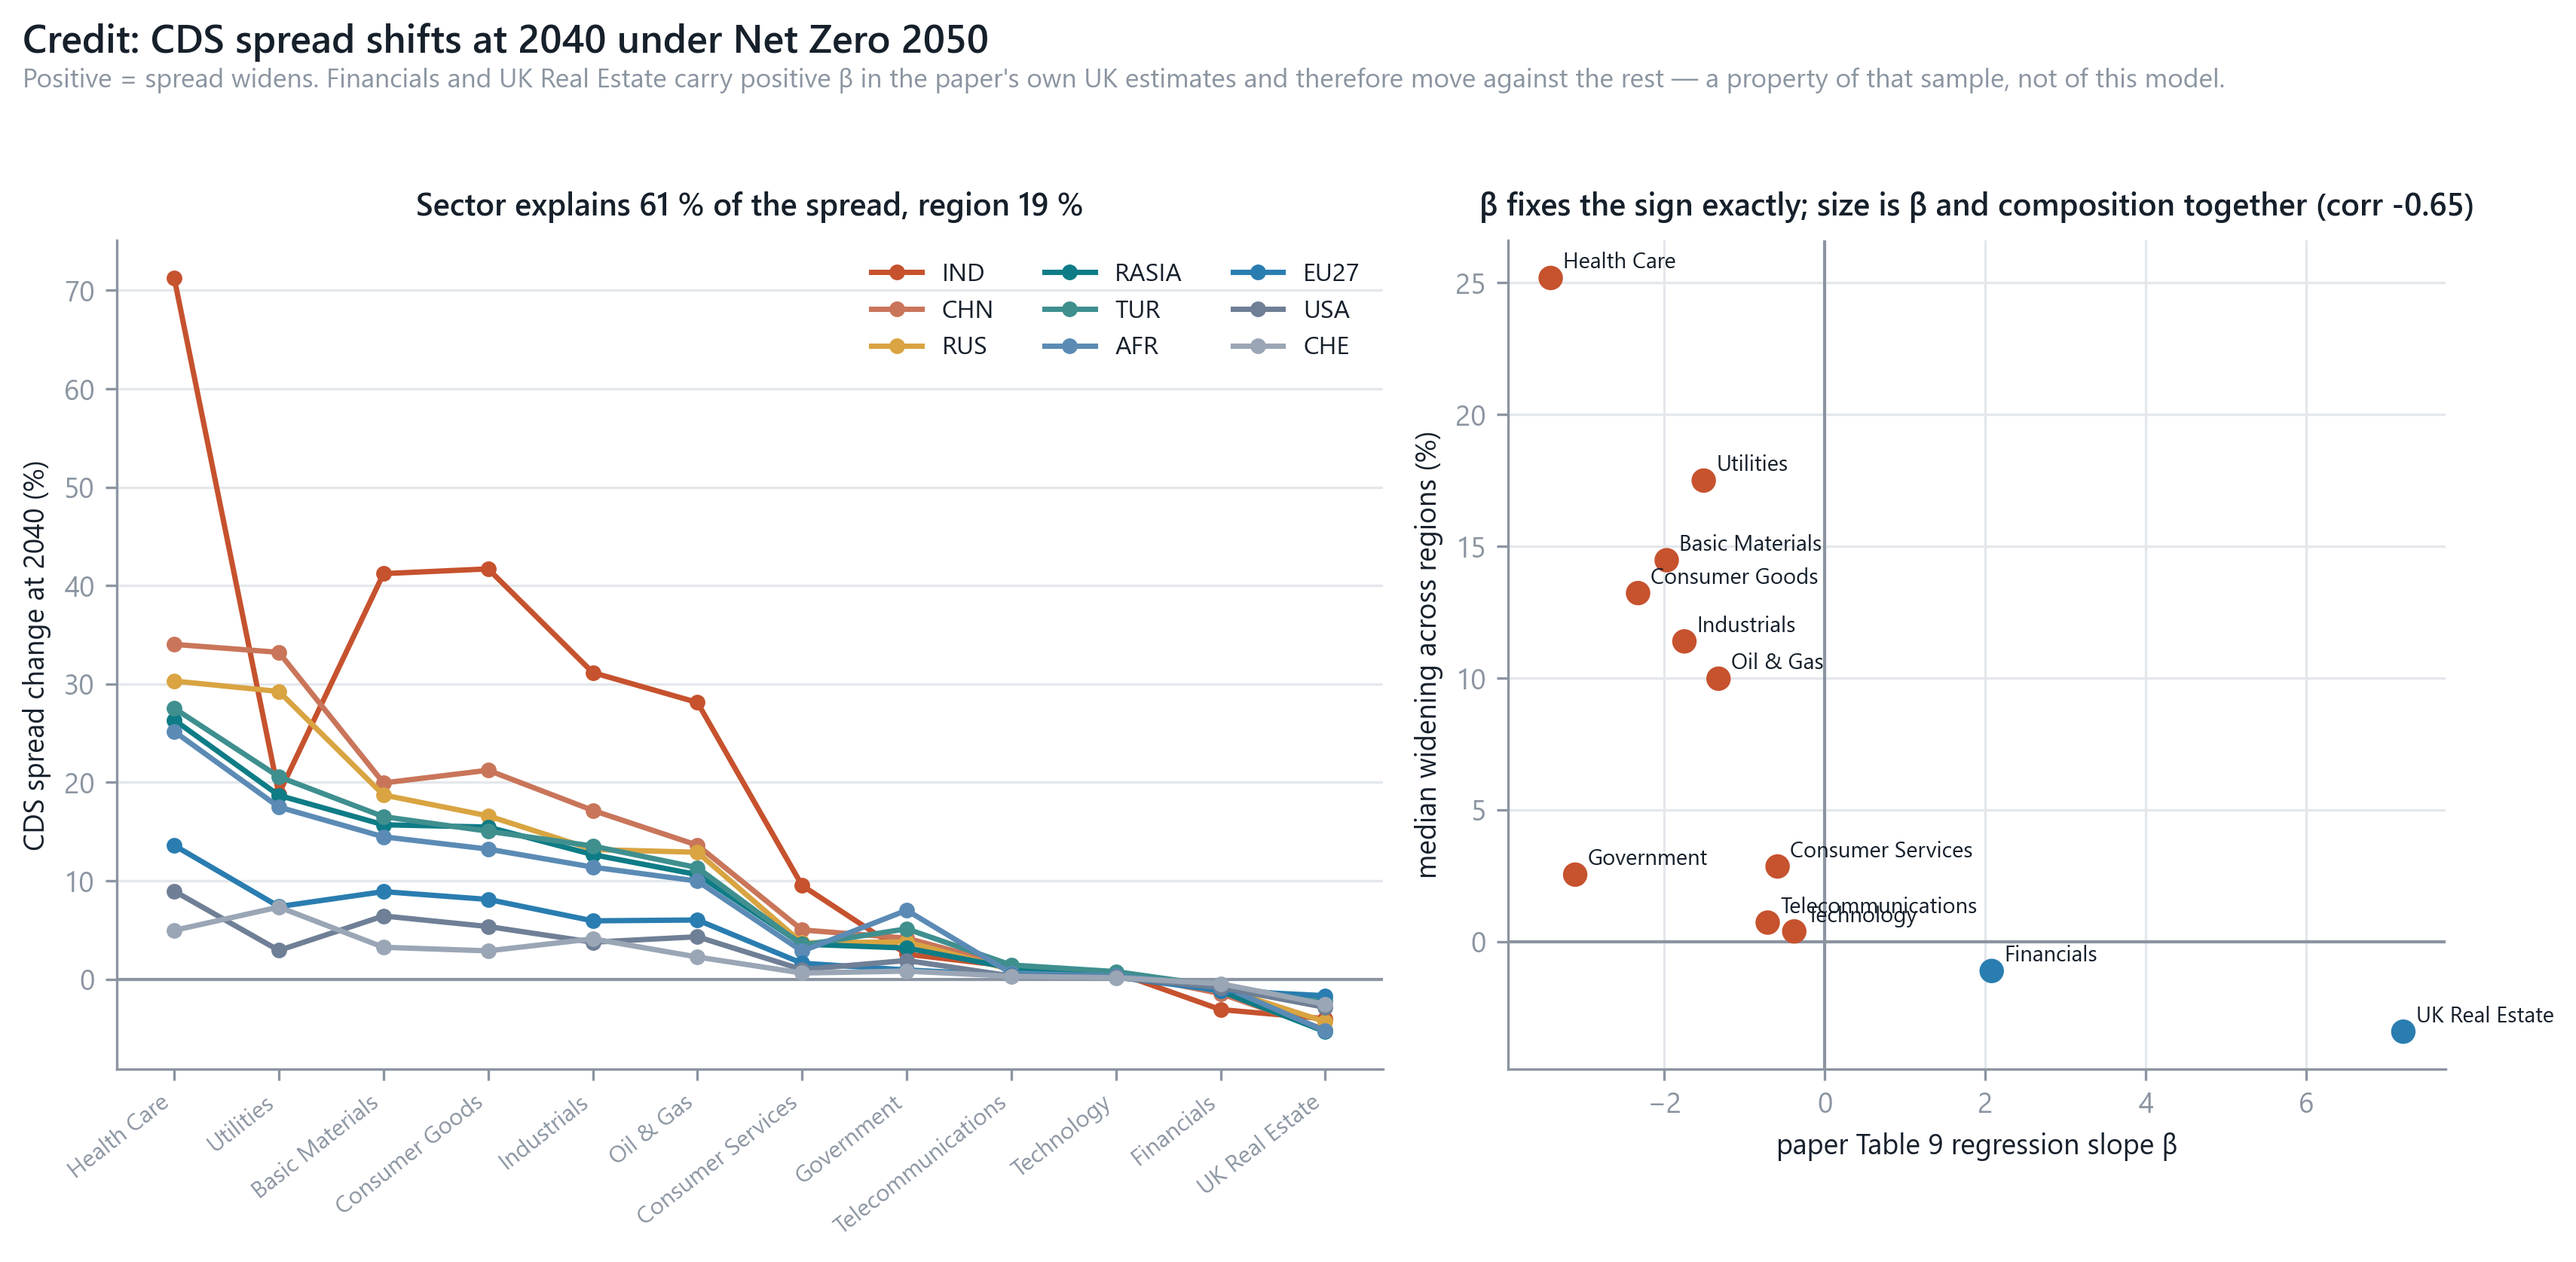
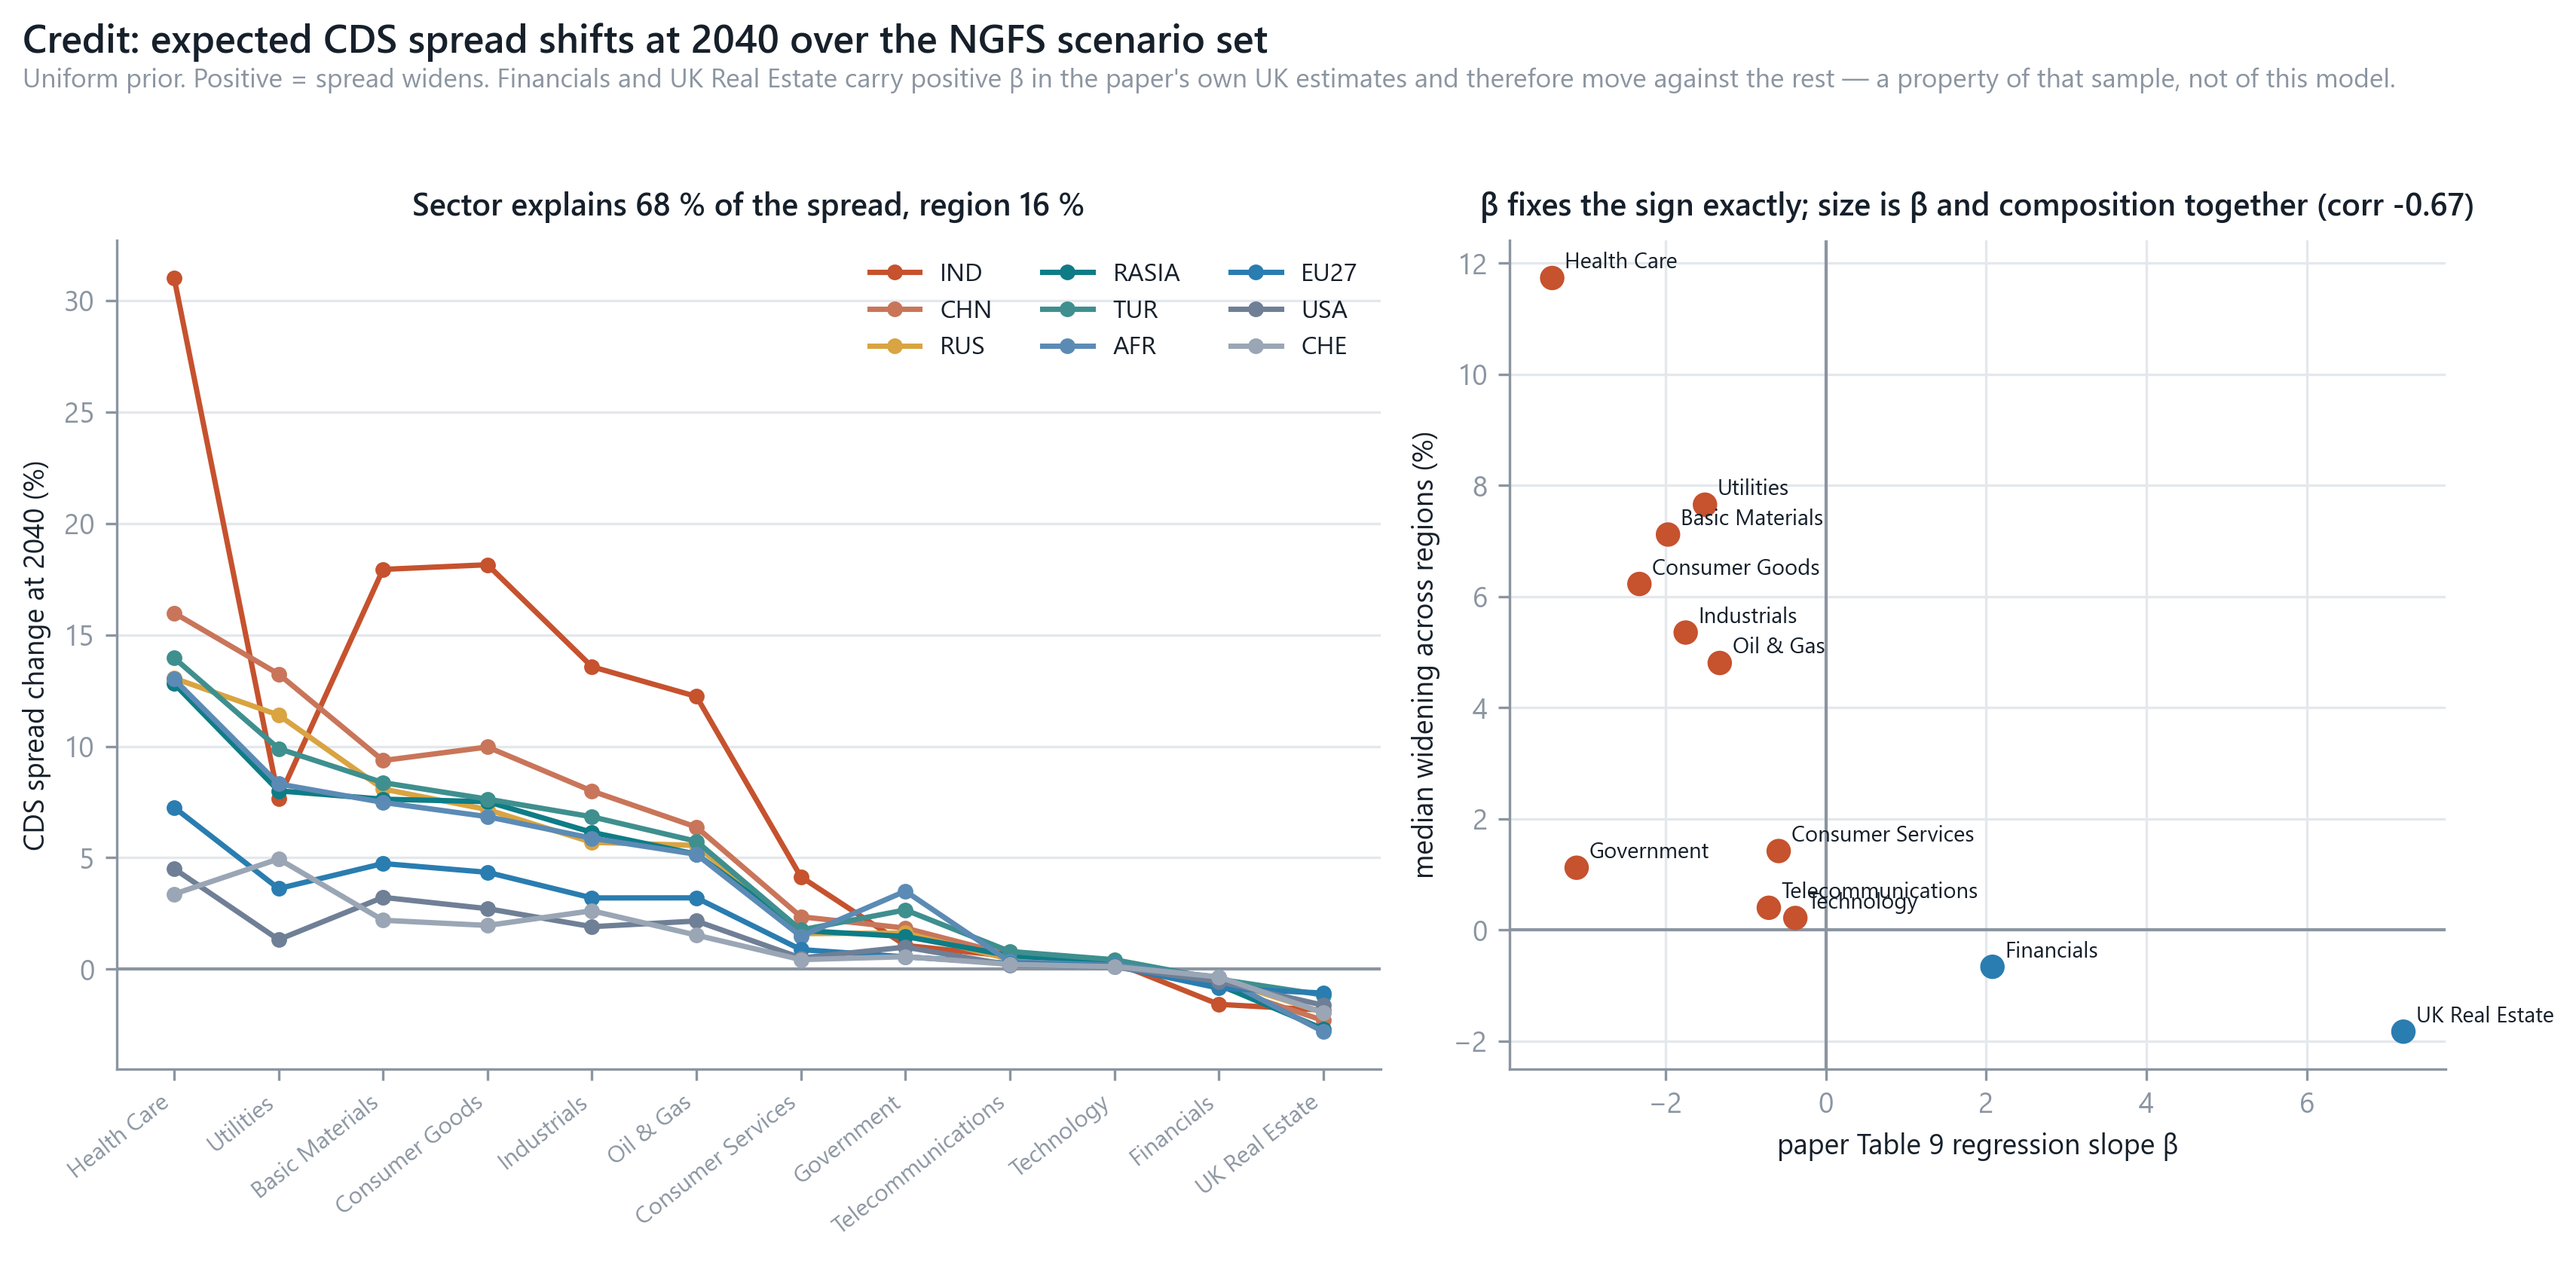
Put the headline figures on the same basis as the tables beside them
Three figures in the Main Results section plotted Net Zero 2050 while the table
directly above them was mixture-weighted, and nothing in the text flagged the
difference. fig6 and fig13 are now the uniform-prior mixture, matching Tables 9
and 8. fig2 was already converted in the previous commit.

Switching fig13 moves two numbers the chapter quotes: the sector/region variance
split goes 61/19 -> 68/16, and the beta correlation -0.65 -> -0.67. Both updated,
along with the FIGURES.md entry, whose fig6 findings were stale against the old
Net Zero figure as well.

Not every figure should be a mixture, and the ones that are not now say why.
fig1, fig8 and fig10 contrast two narratives because the spread between them is
the point; fig7 shows model inputs; fig4, fig12 and fig14 hold Net Zero fixed
because a tail, a decomposition and a pass-through sweep each need a large
carbon charge to be legible, and the chapter labels all three as components.
FIGURES.md gets a Scenario basis table recording the choice for all fifteen, so
the question "is this figure a mixture?" has one place to look.

Gate count 288 -> 298: the caption values for fig6 and fig13 are asserted too.

(cherry picked from commit 980e8f405ca09259686725b2bd2cdbf0fdd61d28)

diff --git a/tests/test_chapter_results.py b/tests/test_chapter_results.py
@@ -219,13 +219,18 @@ for s, v in [("Health Care", 4.86), ("Basic Materials", 2.93),
     chk(f"  consensus sector {s[:14]}", round(float(cons_c[s]), 2), v)
 flag("financials and real estate negative under consensus",
      cons_c["Financials"] < 0 and cons_c["UK Real Estate"] < 0)
-nzc = S("out_ext_credit_spread", (0, 1, 2)).xs(NZ, level=0)["2040"].unstack().drop(columns=["FTSE"])
-stk = nzc.stack().rename("v").reset_index()
+# the variance split and the beta correlation are quoted beside fig13, which
+# plots the mixture, so they are mixture quantities too -- on the Net Zero
+# component alone they read 61/19 and -0.65 instead
+uc = M("credit", "uniform", 1)["2040"].unstack().drop(columns=["FTSE"])
+stk = uc.stack().rename("v").reset_index()
 stk.columns = ["region", "index", "v"]
-chk("  sector variance %", round(stk.groupby("index").v.mean().var() / stk.v.var() * 100), 61, 1)
-chk("  region variance %", round(stk.groupby("region").v.mean().var() / stk.v.var() * 100), 19, 1)
+chk("  sector variance %", round(stk.groupby("index").v.mean().var() / stk.v.var() * 100), 68, 1)
+chk("  region variance %", round(stk.groupby("region").v.mean().var() / stk.v.var() * 100), 16, 1)
 chk("  corr(beta, median)",
-    round(float(np.corrcoef([CDS_BETA[c] for c in nzc.median().index], nzc.median().values)[0, 1]), 2), -0.65)
+    round(float(np.corrcoef([CDS_BETA[c] for c in uc.median().index], uc.median().values)[0, 1]), 2), -0.67)
+flag("beta fixes the sign for every index",
+     all((CDS_BETA[c] < 0) == (uc.median()[c] > 0) for c in uc.columns))
 eq = M("equity", "uniform")["2040"]
 oc = M("oprisk_conduct", "uniform")["2040"]
 b = equity.betas()
@@ -298,6 +303,21 @@ flag("fig14 min crossing is AFR", zs.index[0] == "AFR")
 flag("fig14 max crossing is CHE", zs.index[-1] == "CHE")
 flag("fig14 GBR is second-highest", zs.index[-2] == "GBR")
 flag("fig15 exists", os.path.exists(os.path.join(ROOT, "figures", "fig15_prior_sensitivity.png")))
+eqm, opm = M("equity", "uniform")["2040"], M("oprisk_conduct", "uniform")["2040"]
+flag("fig6 equity worst three", list(eqm.sort_values().index[:3]) == ["AFR", "TUR", "RASIA"])
+flag("fig6 op-risk worst three", list(opm.sort_values(ascending=False).index[:3]) == ["RASIA", "USA", "CHE"])
+flag("fig6 TUR 2nd on equity, last on op-risk",
+     list(eqm.sort_values().index).index("TUR") == 1
+     and list(opm.sort_values(ascending=False).index).index("TUR") == len(opm) - 1)
+chk("  fig6 TUR op-risk", round(float(opm["TUR"]), 1), 2.2, 0.05)
+for s, v in [("Health Care", 11.7), ("Utilities", 7.7), ("Basic Materials", 7.1)]:
+    chk(f"  fig13 median {s[:14]}", round(float(uc.median()[s]), 1), v, 0.05)
+chk("  fig13 India health care", round(float(uc.loc["IND", "Health Care"]), 1), 31.0, 0.05)
+# the caption claims the Net Zero component runs about twice the mixture
+nzr = S("out_ext_credit_spread", (0, 1, 2)).xs(NZ, level=0)["2040"].unstack().drop(columns=["FTSE"])
+flag("fig13 Net Zero roughly twice the mixture",
+     1.8 < float(nzr.median()["Health Care"] / uc.median()["Health Care"]) < 2.4,
+     f"{float(nzr.median()['Health Care'] / uc.median()['Health Care']):.2f}x")
 
 print()
 bad = sum(1 for v in ok if not v)

diff --git a/tools/make_figures.py b/tools/make_figures.py
@@ -251,8 +251,11 @@ def fig_vuln():
 
 # --- 6. equity & op-risk -----------------------------------------------------
 def fig_equity_oprisk():
-    eq = load("out_ext_equity").xs(NZ, level=0)
-    op = load("out_ext_oprisk_conduct").xs(NZ, level=0)
+    # mixture, not one narrative: CHAPTER_RESULTS Table 9 reports these two
+    # channels mixture-weighted, so the figure beside it has to be the same
+    # quantity or the two disagree on the page
+    eq = load("out_mix_equity_uniform", idx=(0,))
+    op = load("out_mix_oprisk_conduct_uniform", idx=(0,))
     order = eq[H].sort_values().index.tolist()
     fig, axes = plt.subplots(1, 2, figsize=(10.5, 5.8))
     barh_signed(axes[0], order, [eq.loc[r, H] for r in order])
@@ -264,9 +267,10 @@ def fig_equity_oprisk():
     for ax in axes:
         ax.grid(axis="x", color=GRID, lw=0.8, zorder=0)
         ax.set_axisbelow(True)
-    fig.suptitle("Downstream channels under Net Zero 2050",
+    fig.suptitle("Downstream channels, expected over the NGFS scenario set",
                  fontsize=12.5, fontweight="600", x=0.012, ha="left", y=1.075)
-    fig.text(0.012, 1.012, "Equity via β·ΔGVA/GVA (§2.9); op-risk via Okun → unemployment → loss frequency (§2.11).",
+    fig.text(0.012, 1.012, "Uniform prior at 2040. Equity via β·ΔGVA/GVA (§2.9); "
+             "op-risk via Okun → unemployment → loss frequency (§2.11).",
              fontsize=8.5, color=MUTED, ha="left")
     fig.tight_layout()
     fig.savefig(os.path.join(FIG, "fig6_equity_oprisk.png"), dpi=300, bbox_inches="tight")
@@ -534,7 +538,10 @@ def fig_two_channels():
 
 # --- 13. credit: CDS spread shifts by sector and region ----------------------
 def fig_credit():
-    d = load("out_ext_credit_spread", idx=(0, 1, 2)).xs(NZ, level=0)[H].unstack()
+    # mixture, to match CHAPTER_RESULTS Table 8.  Both panel titles read their
+    # numbers off `d`, so the sector/region split and the beta correlation
+    # follow the source automatically
+    d = load("out_mix_credit_uniform", idx=(0, 1))[H].unstack()
     # drop FTSE (it is the equity column) and order sectors by median widening
     d = d.drop(columns=["FTSE"], errors="ignore")
     order = d.median().sort_values(ascending=False).index.tolist()
@@ -588,10 +595,10 @@ def fig_credit():
     axes[1].grid(color=GRID, lw=0.8, zorder=0)
     axes[1].set_axisbelow(True)
 
-    fig.suptitle("Credit: CDS spread shifts at 2040 under Net Zero 2050",
+    fig.suptitle("Credit: expected CDS spread shifts at 2040 over the NGFS scenario set",
                  fontsize=12.5, fontweight="600", x=0.012, ha="left", y=1.06)
     fig.text(0.012, 1.005,
-             "Positive = spread widens. Financials and UK Real Estate carry "
+             "Uniform prior. Positive = spread widens. Financials and UK Real Estate carry "
              "positive β in the paper's own UK estimates and therefore move "
              "against the rest — a property of that sample, not of this model.",
              fontsize=8.5, color=MUTED, ha="left")

diff --git a/docs/FIGURES.md b/docs/FIGURES.md
@@ -166,14 +166,15 @@ comes from Δr, none from the curve. This is a validation figure as much as a
 result.
 
 ### fig6 — `fig6_equity_oprisk.png`
-**What.** Two downstream channels at 2040 under Net Zero: equity index shift
-(β·ΔGVA/GVA) and operational-risk conduct losses (Okun → unemployment → loss
-frequency).
+**What.** Two downstream channels at 2040, **mixture-weighted under the uniform
+prior** to match [CHAPTER_RESULTS.md](CHAPTER_RESULTS.md) Table 9: equity index
+shift (β·ΔGVA/GVA) and operational-risk conduct losses (Okun → unemployment →
+loss frequency).
 
 **Findings.** The two orderings **differ**, and instructively. Equity losses are
-led by RASIA −8.0 %, IND −7.8 %, TUR −7.5 %; op-risk conduct losses by
-RASIA +10.2 %, USA +8.3 %, CHE +7.0 %. **Türkiye is 3rd-worst on equity and last
-on op-risk** (+2.0 %), because the two channels run on different inputs: equity
+led by AFR −4.86 %, TUR −4.50 %, RASIA −4.45 %; op-risk conduct losses by
+RASIA +10.7 %, USA +8.6 %, CHE +7.3 %. **Türkiye is 2nd-worst on equity and last
+on op-risk** (+2.2 %), because the two channels run on different inputs: equity
 on the total GVA shock through a beta, op-risk on physical damage alone through
 Okun's law and the *base unemployment rate*. Türkiye's base rate is 10.46 %, so a
 given rise in unemployment is a small relative change; RASIA's is 2.83 %, so the
@@ -224,19 +225,22 @@ Priced at the published CBAM certificate price (\$86/t), and the caption now rea
 both price and revenue from the data — see the maintenance note above.
 
 ### fig13 — `fig13_credit_spreads.png`
-**What.** The credit channel (§2.9, CDS half) at 2040 under Net Zero: (a) CDS
-spread change by sector, one line per region; (b) each index's paper Table 9
-regression slope β against its median widening.
+**What.** The credit channel (§2.9, CDS half) at 2040, **mixture-weighted under
+the uniform prior** to match [CHAPTER_RESULTS.md](CHAPTER_RESULTS.md) Table 8:
+(a) CDS spread change by sector, one line per region; (b) each index's paper
+Table 9 regression slope β against its median widening.
 
 **Findings.** Widening is mostly a **sector** story — a variance decomposition
-puts **61 %** between sectors and only **19 %** between regions. Health Care is
-widest (median +25.2 %, and +71.3 % for India, the largest cell in the model),
-then Utilities +17.5 % and Basic Materials +14.5 %.
+puts **68 %** between sectors and only **16 %** between regions. Health Care is
+widest (median +11.7 %, and +31.0 % for India, the largest cell in the model),
+then Utilities +7.7 % and Basic Materials +7.1 %. On the Net Zero component
+alone the split is 61/19 and the levels are roughly twice as large, which is the
+usual gap between one narrative and the expectation over seven.
 
 Panel (b) separates what β does from what it does not. It fixes the **sign
 exactly** — all ten negative-β indices widen and both positive-β indices narrow,
 across all 13 regions without exception — but only sets about half the size
-(corr −0.65), the rest coming from which sectors each index is built from.
+(corr −0.67), the rest coming from which sectors each index is built from.
 
 **Read the two negative bars carefully.** Financials (β = +2.08) and UK Real
 Estate (β = +7.21) narrow because the paper's own Table 9 gives them positive
@@ -300,6 +304,28 @@ fig1, which makes the same point one scenario pair at a time. See
 | fig14 | [CHAPTER_RESULTS.md](CHAPTER_RESULTS.md) §3 (pass-through) | 2040, φ ∈ [0,1] |
 | fig15 | [CHAPTER_RESULTS.md](CHAPTER_RESULTS.md) §7.1 (prior sensitivity) | 2040 |
 | fig11 | [TARIFF_CALIBRATION.md](TARIFF_CALIBRATION.md) | 2040 |
+
+## Scenario basis
+
+[CHAPTER_RESULTS.md](CHAPTER_RESULTS.md) reports every headline as an expectation
+over the seven NGFS narratives, so a figure sitting beside one of its tables must
+be the same quantity. Not every figure is a headline, though, and three good
+reasons remain to hold one narrative fixed: to *contrast* narratives, to show the
+*inputs*, or to make a mechanism legible that the expectation averages away.
+This table records which is which, and why.
+
+| basis | figures | why |
+|---|---|---|
+| **mixture** (uniform prior) | fig2, fig6, fig13 | sits beside a mixture-weighted table in the chapter |
+| **mixture**, all four priors | fig3, fig15 | the prior *is* the subject |
+| all seven narratives | fig7 | model inputs, not results |
+| two narratives contrasted | fig1, fig8, fig10 | the spread between them is the point |
+| Net Zero 2050 only | fig4, fig12, fig14 | tail, decomposition and φ sweep — each needs a large charge to be legible, and each is labelled as a component in the text |
+| Current Policies only | fig5 | physical channel, which is near-invariant to the narrative anyway (1.03×) |
+| n/a | fig9, fig11 | drift sensitivity and CBAM, neither a climate-scenario result |
+
+The rule of thumb: **if a figure carries a headline number, it is the mixture; if
+it carries a mechanism, one narrative is allowed, and the caption says so.**
 
 **Not yet drawn:** the tariff illustration of [TARIFF_METHOD.md](TARIFF_METHOD.md)
 §5 has no figure, and neither does the China-share sweep. Both are candidates if

diff --git a/docs/CHAPTER_RESULTS.md b/docs/CHAPTER_RESULTS.md
@@ -354,15 +354,15 @@ its estimated regression slopes.
 | Switzerland | **1.05** | 0.95 | 1.14 | 0.78 | *1.5* |
 
 Credit is the most sector-specific of the channels: decomposing the variance
-across the thirteen-by-twelve grid attributes 61 per cent of it to the sector and
-only 19 per cent to the region. Under the consensus prior the sector ordering is
+across the thirteen-by-twelve grid attributes 68 per cent of it to the sector and
+only 16 per cent to the region. Under the consensus prior the sector ordering is
 health care +4.9 per cent, basic materials +2.9, consumer goods +2.7 and
 utilities +2.2, with financials and real estate negative.
 
 The regression slope fixes the sign of each index exactly — all ten
 negative-slope indices widen and both positive-slope indices narrow, across all
 thirteen regions without exception — but accounts for only about half the
-variation in size, correlating −0.65 with the median widening. The remainder
+variation in size, correlating −0.67 with the median widening. The remainder
 comes from which sectors each index is built from.
 
 Financials and UK real estate narrow rather than widen, and this deserves care.
